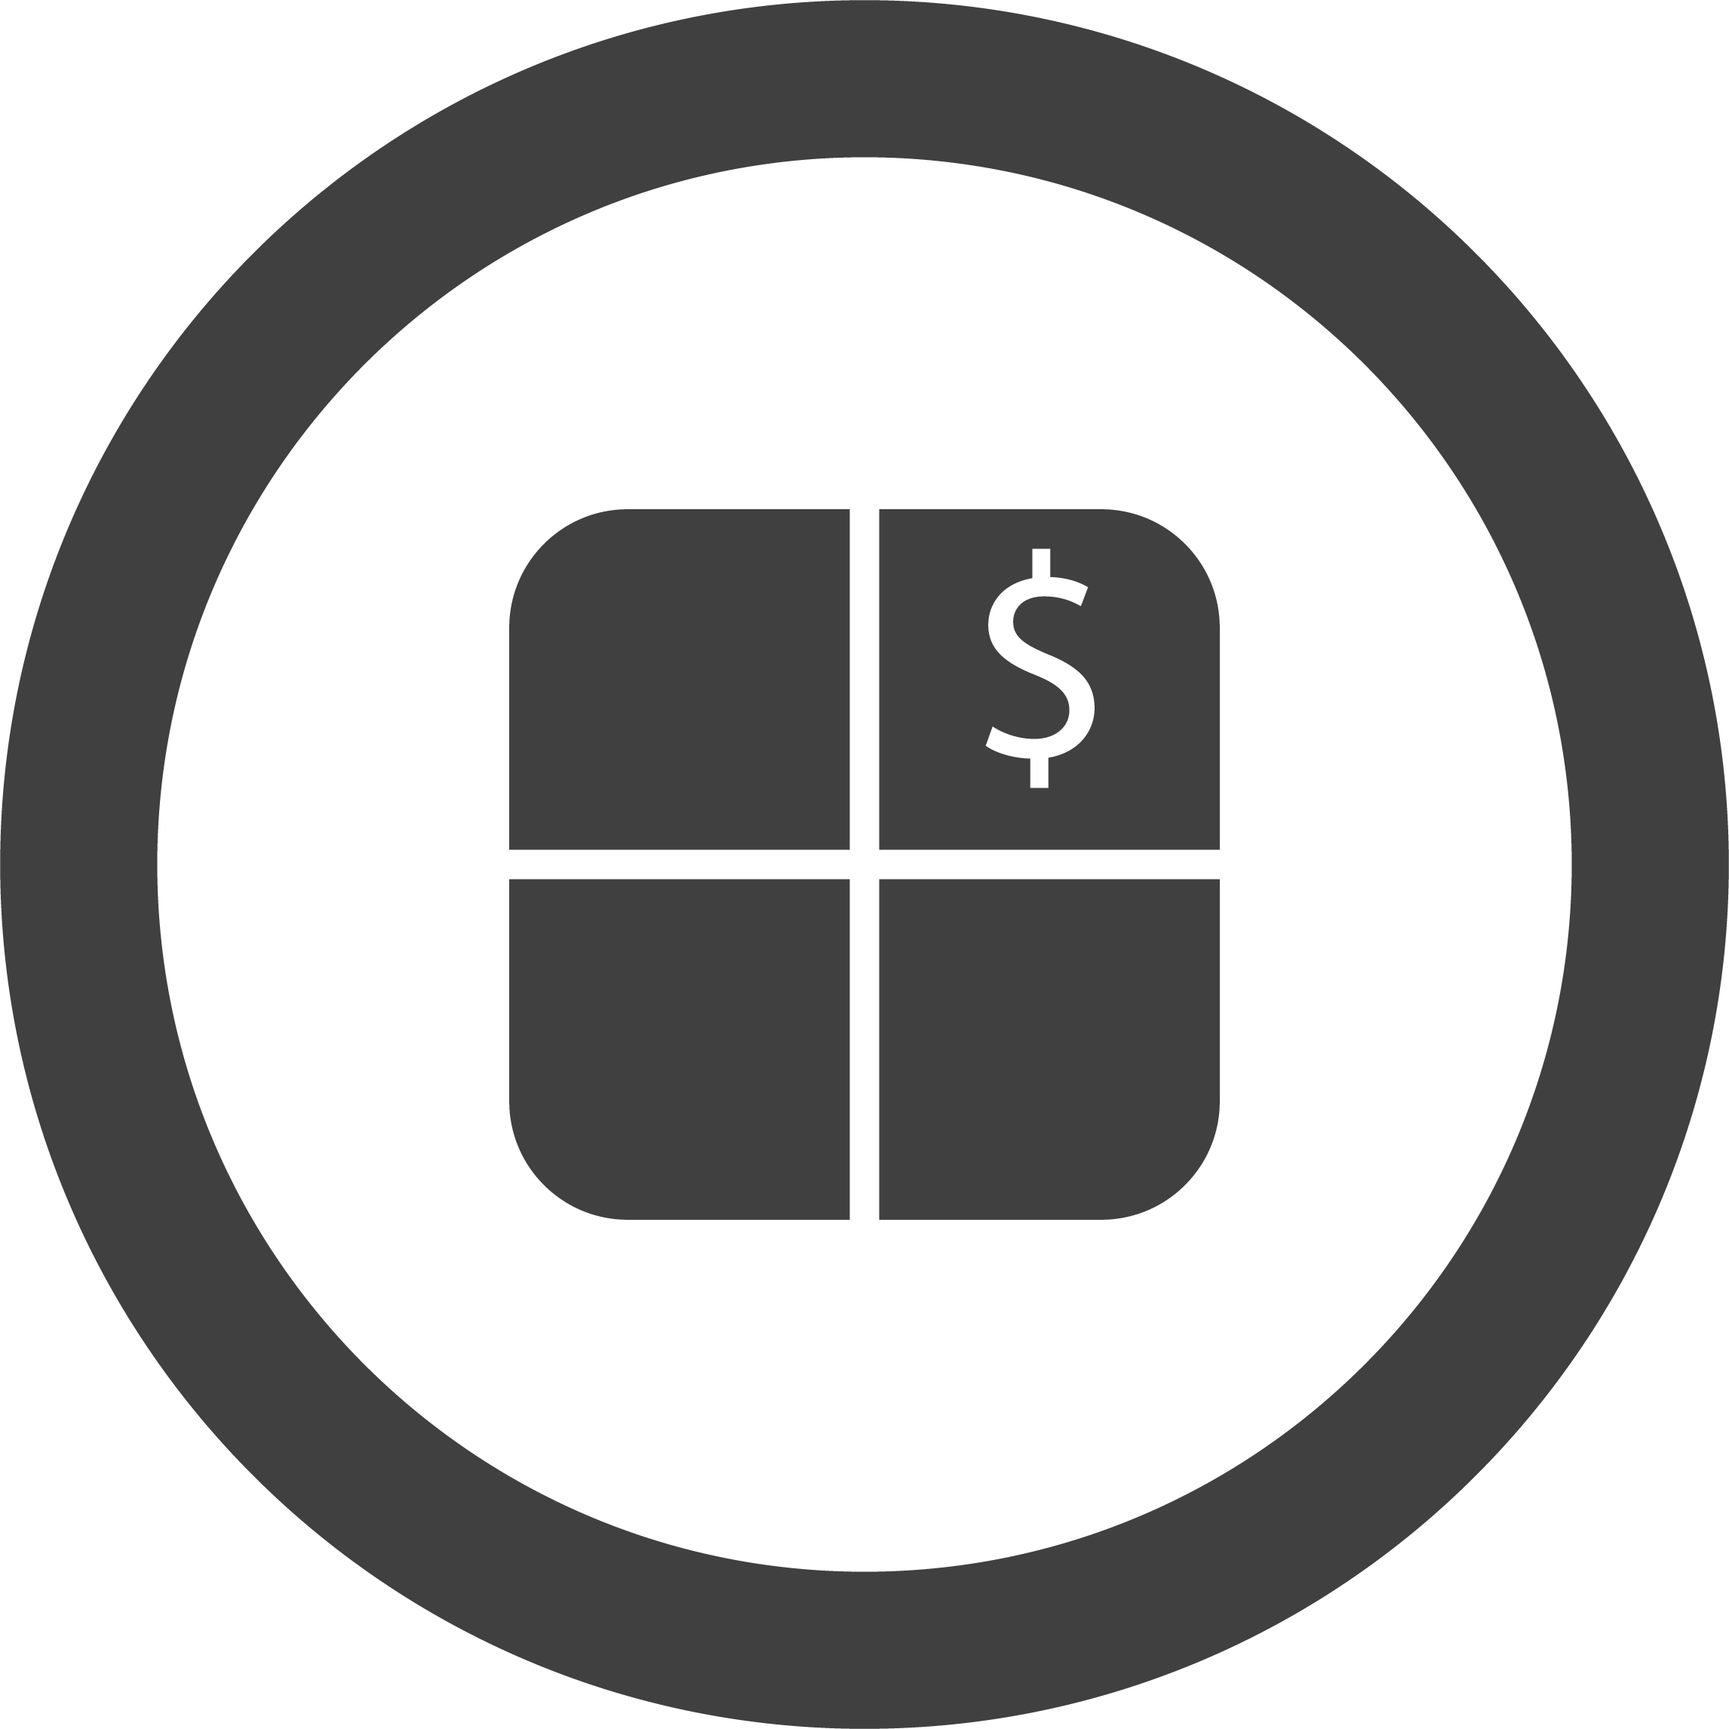
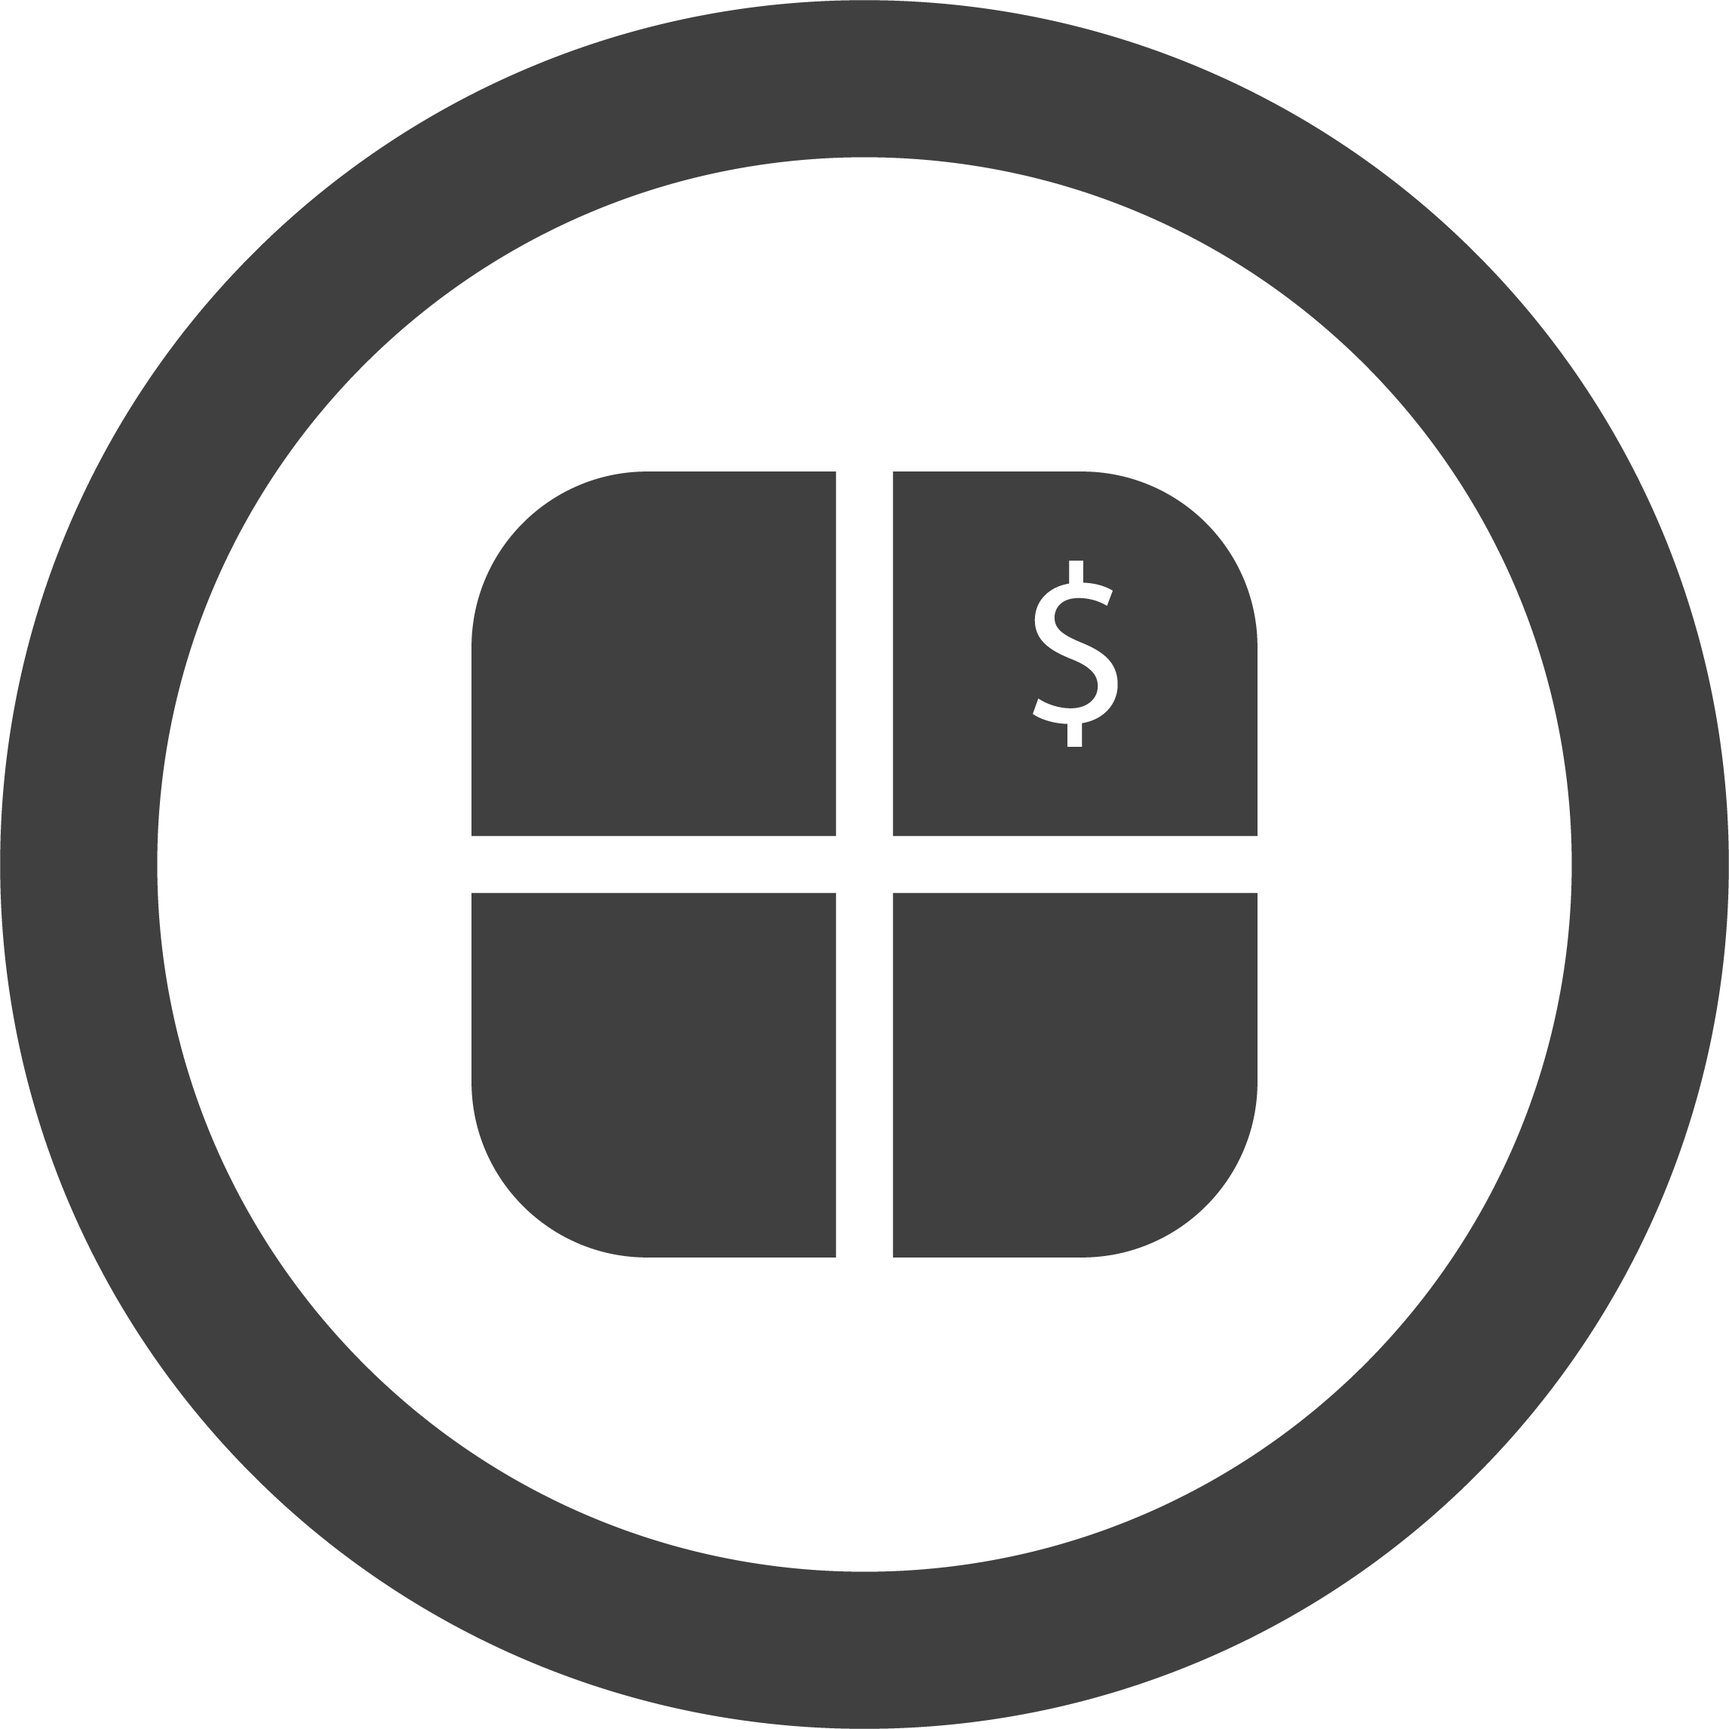
Squared Look

Changed region(s): [[0.2478, 0.2478, 0.7435, 0.7435]]

diff --git a/BankingApp/src/screens/HomeScreen/index.js b/BankingApp/src/screens/HomeScreen/index.js
@@ -17,18 +17,19 @@ export default function Home() {
     // let cardVendorLogo = "require('../../assets/Images/MasterCardIcon.png')";
     // Figure out how to set variable to path and pass variables to props for custom component
     const [recentCardsList, setRecentCardsList] = useState([
-        { name: 'Gaurav Sekar', date: '19 January 2022', time: '03:23 PM', icon: '../../assets/Images/ProfileIcon.png', amount: 149.00, key: '1' },
-        { name: 'Nitheesh Raja', date: '23 January 2022', time: '09:12 AM', icon: '../../assets/Images/ProfileIcon.png', amount: -200.30, key: '2' },
-        { name: 'Kedar Kulkarni', date: '29 January 2022', time: '01:45 PM', icon: '../../assets/Images/ProfileIcon.png', amount: 236.76, key: '3' },
-        { name: 'Kartk Prasanna', date: '02 February 2022', time: '03:02 PM', icon: '../../assets/Images/ProfileIcon.png', amount: -92.00, key: '4' },
-        { name: 'Aswathy Nair', date: '05 February 2022', time: '11:56 AM', icon: '../../assets/Images/ProfileIcon.png', amount: -50.00, key: '5' },
+        { name: 'Gaurav Sekar', date: '19 January 2022', time: '03:23 PM', amount: 149.00, key: '1' },
+        { name: 'Nitheesh Raaja', date: '23 January 2022', time: '09:12 AM', amount: -200.30, key: '2' },
+        { name: 'Kedar Kulkarni', date: '29 January 2022', time: '01:45 PM', amount: 236.76, key: '3' },
+        { name: 'Kartik Prasanna', date: '02 February 2022', time: '03:02 PM', amount: -92.00, key: '4' },
+        { name: 'Aswathy Nair', date: '05 February 2022', time: '11:56 AM', amount: 50.00, key: '5' },
     ]);
 
     return (
         <>
             <ImageBackground />
-            <StatusBar hidden={true} />
-            <ScrollView contentContainerStyle={styles.scrollableContainer} style={styles.container} >
+            {/* <StatusBar hidden={true} /> */}
+            <View style={[styles.container, { height: windowHeight, width: windowWidth }]}>
+                {/* <ScrollView contentContainerStyle={styles.scrollableContainer} style={styles.container} > */}
                 <View style={[styles.credBox, { width: windowWidth - widthNeg }]}>
                     <View style={styles.credBoxUser}>
                         <ImageButton PropFunction={() => { setShowModal(!showModal) }} PropStylesImage={styles.profileIcon} PropImageLink={require('../../assets/Images/ProfileIcon.png')} />
@@ -47,20 +48,22 @@ export default function Home() {
                 </View>
 
                 {/* Cards Carousel */}
-                <ScrollView contentContainerStyle={styles.scrollCardsContainer} style={styles.scrollCards} showsHorizontalScrollIndicator={false} horizontal={true} snapToInterval={335 + 10} snapToAlignment={'center'} decelerationRate={0.95} overScrollMode={'never'} >
-                    <CardComponent cardType='EBI Titanium Card' userF={firstName} userL={lastName} balance={'$42,069.00'} accNumber='NI69420CE' cardVendor={require('../../assets/Images/MasterCardIcon.png')} cardVendorStyle={styles.cardLogoMasterCard} cardBG={require('../../assets/Images/Gradient.png')} />
+                <View style={styles.scrollCardsContainer}>
+                    <ScrollView style={styles.scrollCardsInnnerContainer} showsHorizontalScrollIndicator={false} horizontal={true} snapToInterval={335 + 10} snapToAlignment={'center'} decelerationRate={0.95} overScrollMode={'never'} >
 
-                    <CardComponent cardType='UPI Titanium Card' userF={firstName} userL={lastName} balance={'$57,473.32'} accNumber='VM10262SS' cardVendor={require('../../assets/Images/MasterCardIcon.png')} cardVendorStyle={styles.cardLogoMasterCard} cardBG={require('../../assets/Images/Gradient2.png')} />
+                        <CardComponent cardType='UPI Titanium Card' userF={firstName} userL={lastName} balance={'$57,473.32'} accNumber='VM10262SS' cardVendor={require('../../assets/Images/MasterCardIcon.png')} cardVendorStyle={styles.cardLogoMasterCard} cardBG={require('../../assets/Images/Gradient2.png')} />
 
-                    <CardComponent cardType='XYZ Platinum Card' userF={firstName} userL={lastName} balance={'$13,375.49'} accNumber='CR13375AP' cardVendor={require('../../assets/Images/VisaIcon.png')} cardVendorStyle={styles.cardLogoVisa} cardBG={require('../../assets/Images/Gradient3.png')} />
+                        <CardComponent cardType='EBI Titanium Card' userF={firstName} userL={lastName} balance={'$42,069.00'} accNumber='NI69420CE' cardVendor={require('../../assets/Images/MasterCardIcon.png')} cardVendorStyle={styles.cardLogoMasterCard} cardBG={require('../../assets/Images/Gradient.png')} />
 
-                </ScrollView>
+                        <CardComponent cardType='XYZ Platinum Card' userF={firstName} userL={lastName} balance={'$13,375.49'} accNumber='CR13375AP' cardVendor={require('../../assets/Images/VisaIcon.png')} cardVendorStyle={styles.cardLogoVisa} cardBG={require('../../assets/Images/Gradient3.png')} />
+                    </ScrollView>
+                </View>
 
                 {/* Features Box */}
-                <View style={[styles.compBox, { width: windowWidth - widthNeg }]}>
-                    <View style={styles.compTextRow}>
-                        <Text style={styles.compH1}>Features</Text>
-                        <TextButton PropFunction={() => { setShowModal(!showModal) }} PropStylesText={styles.compH2} PropText='See More' />
+                <View style={[styles.commonBox, { width: windowWidth - widthNeg }]}>
+                    <View style={styles.commonTextRow}>
+                        <Text style={styles.h1}>Features</Text>
+                        <TextButton PropFunction={() => { setShowModal(!showModal) }} PropStylesText={styles.h2} PropText='See More' />
                     </View>
                     <View style={styles.featuresButtonRow}>
                         <ImageTextButton PropFunction={() => { setShowModal(!showModal) }} PropText='Send' PropStylesButton={styles.featuresButton} PropStylesText={styles.featuresButtonText} PropImageLink={require('../../assets/Images/SendIcon.png')} PropStylesImage={styles.featuresIcon} />
@@ -70,24 +73,31 @@ export default function Home() {
                 </View>
 
                 {/* Recent Box */}
-                <View style={[styles.compBox, { width: windowWidth - widthNeg, height: 250 }]}>
-                    <View style={styles.compTextRow}>
-                        <Text style={styles.compH1}>Recent Activity</Text>
-                        <TextButton PropFunction={() => { setShowModal(!showModal) }} PropStylesText={styles.compH2} PropText='See More' />
+                <View style={[styles.commonBox, { width: windowWidth - widthNeg, flex: 1, }]}>
+                    <View style={styles.commonTextRow}>
+                        <Text style={styles.h1}>Recent Activity</Text>
+                        <TextButton PropFunction={() => { setShowModal(!showModal) }} PropStylesText={styles.h2} PropText='See More' />
                     </View>
 
-                    <FlatList data={recentCardsList} renderItem={({ item }) => (
-                        <RecentCards accountName={item.name} profileIconLink={item.icon} transactionDate={item.date} transactionTime={item.time} transactionAmount={item.amount} nameStyle={styles.recentCardName} containerStyle={styles.recentCards} profileIconStyle={styles.recentCardProfileIcon} dateStyle={styles.recentCardDate} amountStyle={styles.recentCardAmount} TimeStyle={styles.recentCardTime} />
-                    )} showsVerticalScrollIndicator={false} />
-
+                    <FlatList contentContainerStyle={styles.recentCardsContainer} data={recentCardsList} renderItem={({ item }) => (
+                        <RecentCards containerFunction={() => { setShowModal(!showModal) }} accountName={item.name} profileIconLink={require('../../assets/Images/ProfileIcon.png')} transactionDate={item.date} transactionTime={item.time} transactionAmount={item.amount} nameStyle={styles.recentCardName} containerStyle={styles.recentCards} profileIconStyle={styles.recentCardProfileIcon} dateStyle={styles.recentCardDate} amountStyle={styles.recentCardAmount} TimeStyle={styles.recentCardTime} />
+                    )} showsVerticalScrollIndicator={false} overScrollMode={'never'} />
                 </View>
 
-            </ScrollView>
+                <View style={[styles.commonBox, { width: windowWidth - widthNeg }]}>
+                    <View style={styles.navButtonRow}>
+                        <ImageButton PropFunction={() => { setShowModal(!showModal) }} PropImageLink={require('../../assets/Images/HomeIcon.png')} PropStylesImage={styles.navIcons} />
+                        <ImageButton PropFunction={() => { setShowModal(!showModal) }} PropImageLink={require('../../assets/Images/PieIcon.png')} PropStylesImage={styles.navIcons} />
+                        <ImageButton PropFunction={() => { setShowModal(!showModal) }} PropImageLink={require('../../assets/Images/SwitchIcon.png')} PropStylesImage={styles.navIcons} />
+                        <ImageButton PropFunction={() => { setShowModal(!showModal) }} PropImageLink={require('../../assets/Images/BellIcon.png')} PropStylesImage={styles.navIcons} />
+                    </View>
+                </View>
+            </View>
         </>
     )
 }
 
-let cornerRadius = 35;
+let cornerRadius = 0;
 let darkestText = '#202020';
 let darkerText = '#303030';
 let boxColour = '#fafafa';
@@ -96,16 +106,11 @@ let boldFont = 'Montserrat-Medium';
 
 const styles = StyleSheet.create({
 
-    scrollableContainer: {
-        // flex: 1,
-        alignItems: 'center',
-        // display: 'none',
-    },
-
     container: {
-        flex: 1,
         backgroundColor: 'rgba(50,50,50,0.6)',
-        // alignItems: 'center',
+        alignItems: 'center',
+        alignContent: 'center',
+        paddingVertical: 10,
 
     },
 
@@ -113,10 +118,8 @@ const styles = StyleSheet.create({
         flexDirection: 'row',
         alignItems: 'center',
         justifyContent: 'space-between',
-        height: 70,
         backgroundColor: boxColour,
-        paddingHorizontal: 15,
-        marginTop: 10,
+        padding: 10,
         marginBottom: 5,
         borderRadius: cornerRadius,
         elevation: 10,
@@ -145,7 +148,6 @@ const styles = StyleSheet.create({
 
     userName: {
         fontSize: 24,
-        // fontWeight: 'bold',
         color: darkestText,
         marginHorizontal: 10,
         fontFamily: boldFont,
@@ -153,14 +155,12 @@ const styles = StyleSheet.create({
 
     modalContainer: {
         justifyContent: 'center',
-        flex: 1,
 
     },
 
     modalPopup: {
-        // height: 225,
         alignSelf: 'center',
-        width: 300,
+        width: 250,
         backgroundColor: boxColour,
         borderRadius: cornerRadius,
         borderWidth: 5,
@@ -181,22 +181,20 @@ const styles = StyleSheet.create({
 
     closeIcon: {
         resizeMode: 'contain',
-        height: 50,
-        width: 50,
+        height: 40,
+        width: 40,
         margin: 10,
 
     },
 
     scrollCardsContainer: {
-        margin: 5,
-        // backgroundColor: 'black',
-    },
-
-    scrollCards: {
-        // backgroundColor: 'black',
-        width: '100%',
+        marginVertical: 5,
+        // backgroundColor: 'white',
+        alignItems: 'center',
+        height: 200,
 
     },
+
 
     cardLogoVisa: {
         position: 'absolute',
@@ -205,7 +203,7 @@ const styles = StyleSheet.create({
         width: 50,
         height: 50,
         marginHorizontal: 10,
-        //  backgroundColor: 'black',
+
     },
 
     cardLogoMasterCard: {
@@ -216,37 +214,37 @@ const styles = StyleSheet.create({
         width: 50,
         height: 50,
         marginHorizontal: 10,
-        //  backgroundColor: 'black',
 
     },
 
-    compBox: {
+    commonBox: {
         elevation: 10,
         backgroundColor: boxColour,
-        borderRadius: 15,
-        padding: 10,
+        borderRadius: cornerRadius,
+        // padding: 10,
         marginVertical: 5,
         // borderColor: borderColour,
 
     },
 
-    compTextRow: {
+    commonTextRow: {
         flexDirection: 'row',
         justifyContent: 'space-between',
         alignItems: 'flex-end',
         marginBottom: 5,
+        marginTop: 10,
+        marginHorizontal: 10,
 
     },
 
-    compH1: {
+    h1: {
         fontSize: 24,
-        // fontWeight: 'bold',
         color: darkestText,
         fontFamily: boldFont,
 
     },
 
-    compH2: {
+    h2: {
         fontSize: 14,
         color: darkerText,
         fontFamily: lightFont,
@@ -254,11 +252,11 @@ const styles = StyleSheet.create({
     },
 
     featuresButtonRow: {
-        flex: 1,
         flexDirection: 'row',
         justifyContent: 'space-between',
         height: 60,
-        // marginVertical: 5,
+        marginHorizontal: 10,
+        marginBottom: 10,
 
     },
 
@@ -266,8 +264,7 @@ const styles = StyleSheet.create({
         width: '32%',
         height: '100%',
         backgroundColor: 'white',
-        borderRadius: 10,
-        // padding: 10,
+        borderRadius: cornerRadius,
 
     },
 
@@ -275,6 +272,7 @@ const styles = StyleSheet.create({
         height: 25,
         width: 25,
         marginHorizontal: 10,
+
     },
 
     featuresButtonText: {
@@ -284,11 +282,16 @@ const styles = StyleSheet.create({
         // paddingHorizontal: 10,
     },
 
+    recentCardsContainer: {
+        paddingHorizontal: 10,
+        // borderRadius: 15,
+    },
+
     recentCards: {
         width: '100%',
-        // height: 100,
         backgroundColor: 'white',
-        borderRadius: 10,
+        borderRadius: cornerRadius,
+        marginBottom: 10,
 
     },
 
@@ -303,6 +306,7 @@ const styles = StyleSheet.create({
         fontFamily: boldFont,
         color: darkestText,
         fontSize: 18,
+
     },
 
     recentCardDate: {
@@ -327,5 +331,19 @@ const styles = StyleSheet.create({
 
     },
 
+    navButtonRow: {
+        flexDirection: 'row',
+        alignContent: 'center',
+        alignItems: 'center',
+        justifyContent: 'space-evenly',
+        height: 60 + + StatusBar.currentHeight,
+
+    },
+
+    navIcons: {
+        margin: 10,
+        height: 30,
+        width: 30,
+    },
 
 })

diff --git a/BankingApp/src/components/CardBox/index.js b/BankingApp/src/components/CardBox/index.js
@@ -18,7 +18,7 @@ export default function CardComponent({ cardType, userF, userL, balance, accNumb
                 <View style={styles.balanceBox}>
                     {/* <Text style={styles.mainBalance}>${cardBalance}</Text> */}
                     <Text style={styles.mainBalance}>{balance}</Text>
-                    <Text style={styles.balanceText}>Total Balance</Text>   
+                    <Text style={styles.balanceText}>Total Balance</Text>
                 </View>
 
                 <ImageButton PropFunction={() => { setShowModal(!showModal) }} PropStylesImage={styles.infoIcon} PropImageLink={require('../../assets/Images/InfoIcon.png')} />
@@ -37,6 +37,7 @@ export default function CardComponent({ cardType, userF, userL, balance, accNumb
                     <Image style={cardVendorStyle} source={cardVendor} />
                 </View>
             </View>
+
         </>
     )
 }
@@ -119,9 +120,9 @@ const styles = StyleSheet.create({
     modalPopup: {
         // height: 225,
         alignSelf: 'center',
-        width: 300,
+        width: 250,
         backgroundColor: '#fafafa',
-        borderRadius: 35,
+        // borderRadius: 35,
         borderWidth: 5,
         borderColor: 'rgba(255,255,255,0.25)',
         alignItems: 'center',
@@ -140,8 +141,8 @@ const styles = StyleSheet.create({
 
     closeIcon: {
         resizeMode: 'contain',
-        height: 50,
-        width: 50,
+        height: 40,
+        width: 40,
         margin: 10,
 
     },

diff --git a/BankingApp/src/components/RecentCards/index.js b/BankingApp/src/components/RecentCards/index.js
@@ -41,6 +41,7 @@ const styles = StyleSheet.create({
         justifyContent: 'space-between',
         alignItems: 'center',
         // marginVertical: 5,
+        
     },
 
     leftBox: {
@@ -49,19 +50,23 @@ const styles = StyleSheet.create({
         alignItems: 'center',
         // backgroundColor: 'blue',
         padding: 10,
+
     },
 
     profileIcon: {
         resizeMode: 'contain',
+
     },
 
     nameDateBox: {
         // backgroundColor: 'blue',
+
     },
 
     rightBox: {
         padding: 10,
         // backgroundColor: 'blue',
+
     },
 
 });
